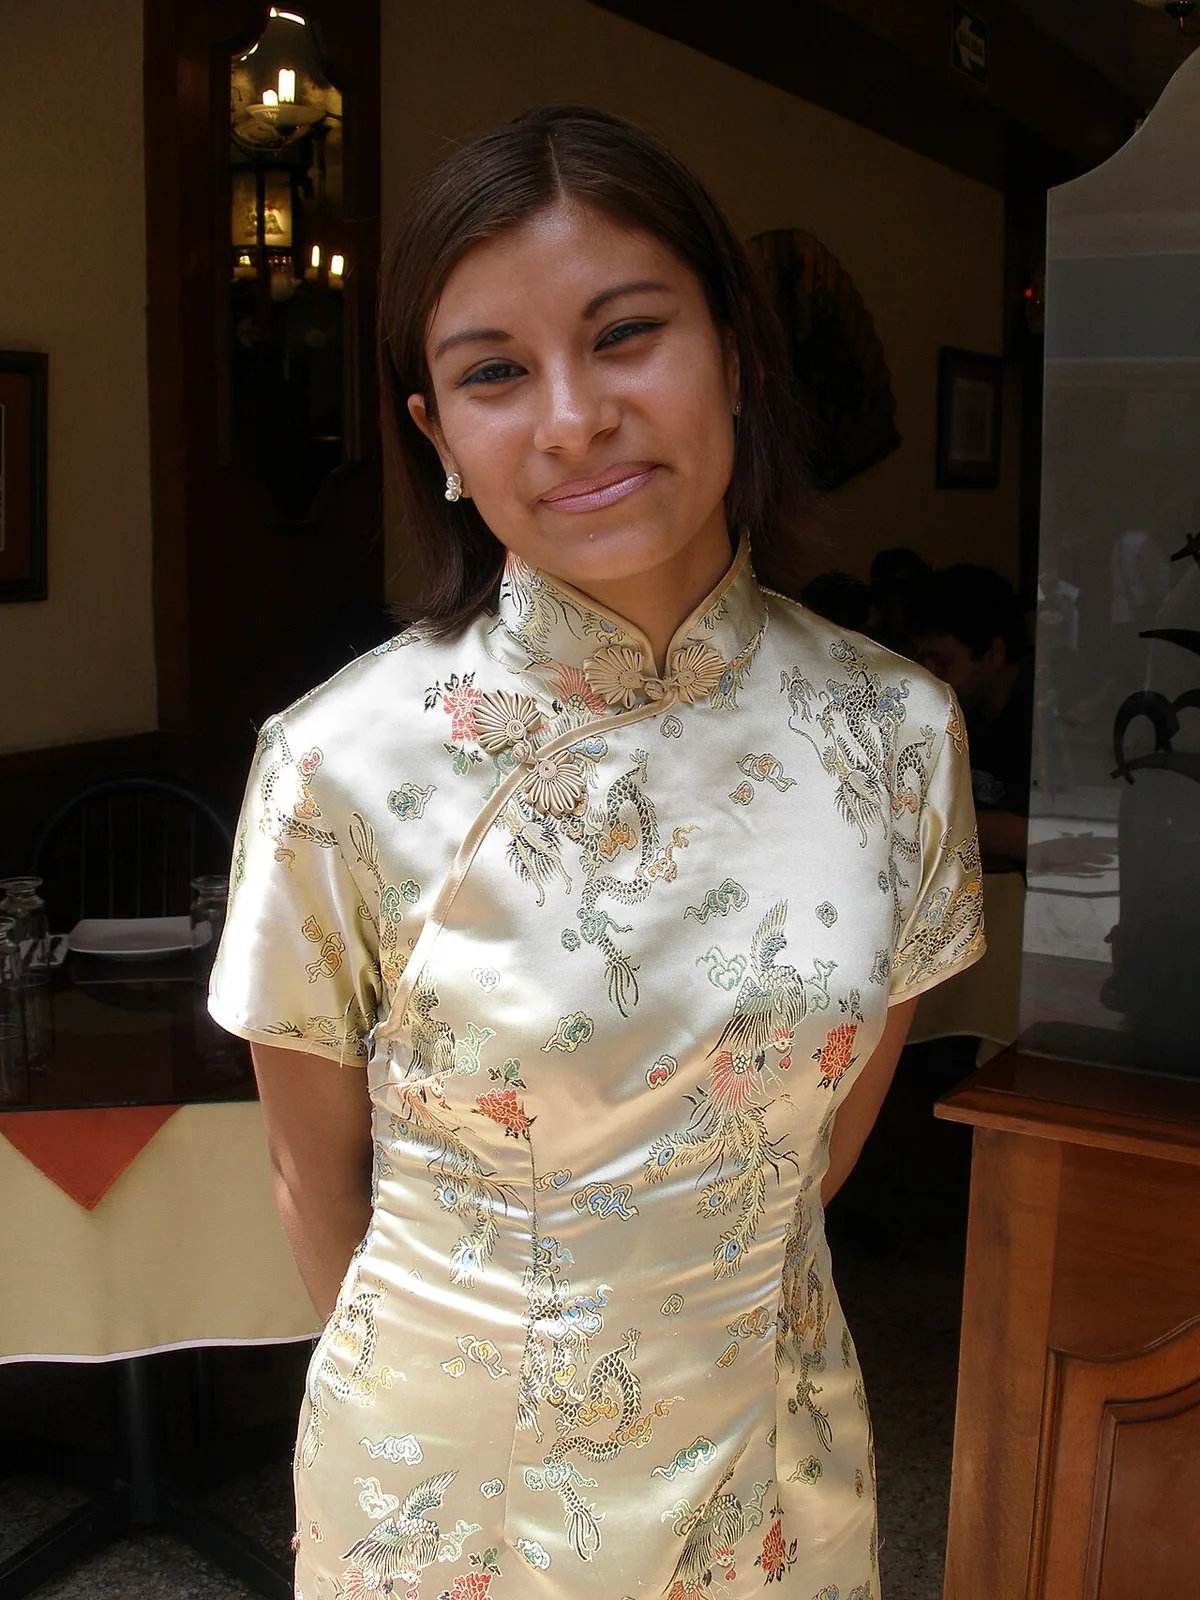
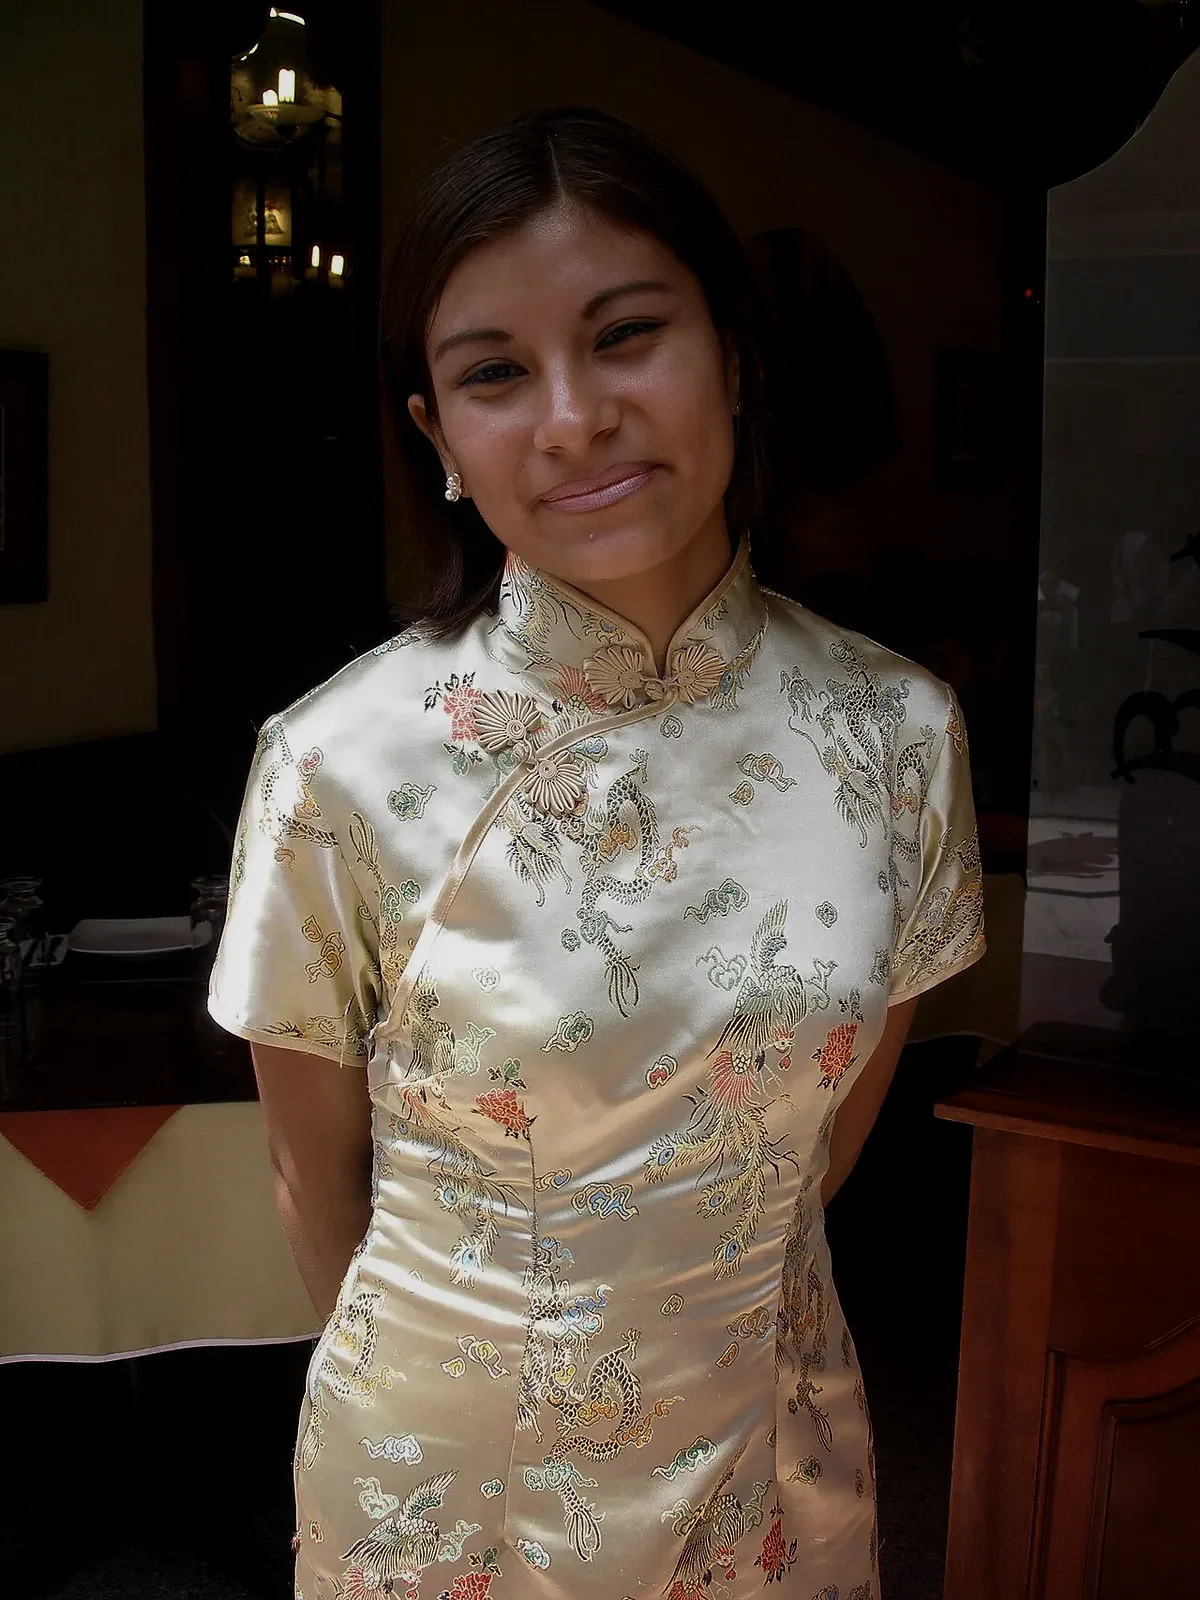
Style Ada portrait with neon grade

diff --git a/assets/js/data.js b/assets/js/data.js
@@ -1001,6 +1001,7 @@ window.SITE = (function () {
       "aliases": "А. Рейн, отдел допусков",
       "portrait": "ada",
       "focus": "50% 30%",
+      "portraitNote": "фото: Thomas Quine / CC BY 2.0, неоновая обработка",
       "tags": [
         "второстепенный",
         "юрист",

diff --git a/docs/site/README.md b/docs/site/README.md
@@ -228,4 +228,5 @@ git log --oneline --decorate -5
 | 2026-10-24 | Портрет Ады заменён на Thomas Quine, CC BY 2.0 |
 | 2026-10-24 | Кнопка наверх переделана в `scroll-top-btn`: слева внизу, 44 px, cyan glass, появление после 400 px |
 | 2026-10-24 | Проработаны имплантаты и оружие: эффект, цена, предел, сбой, расширенные описания |
+| 2026-10-24 | Портрет Ады стилизован: холодные тени, бирюзовый и малиновый свет, зерно, виньетка |
 | 2026-10-24 | Добавлены итог сессии и план следующей сессии |
